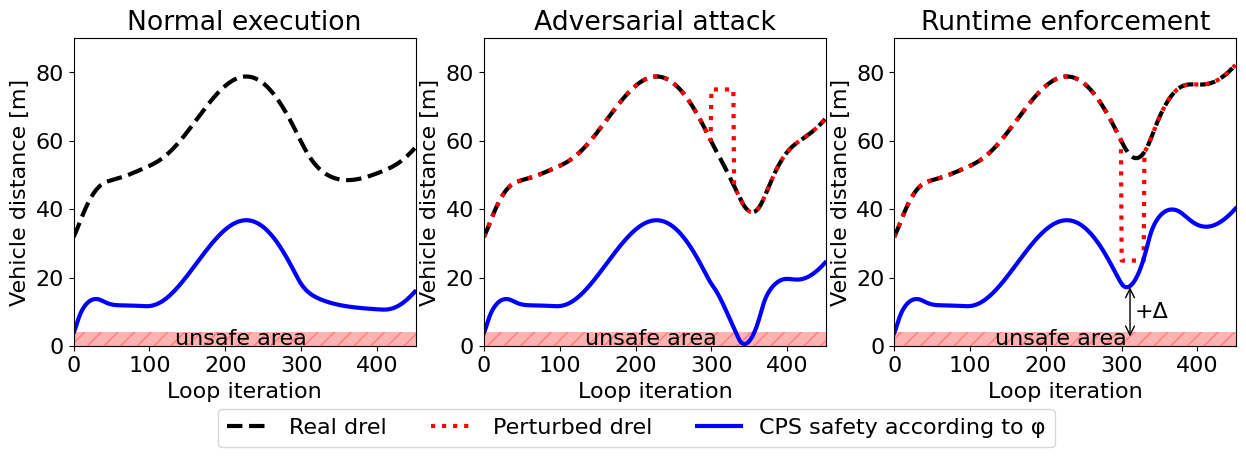
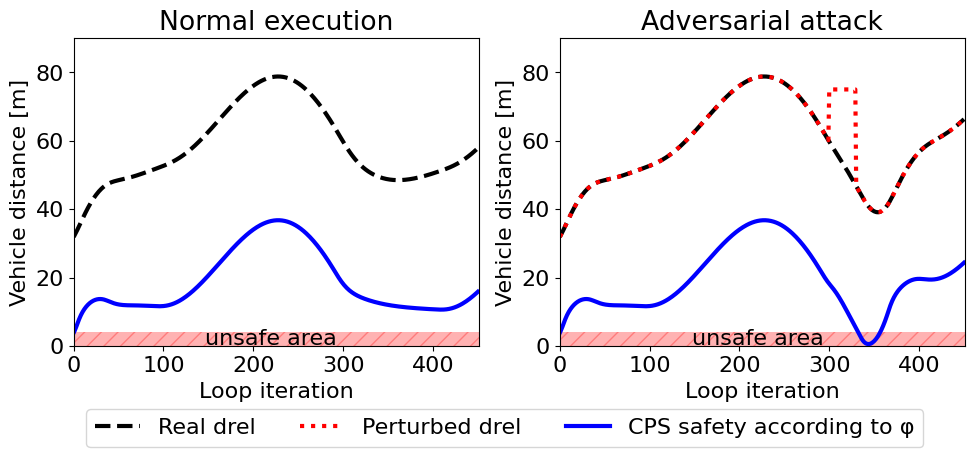
Update acc plot

diff --git a/client/plots/plotacc.py b/client/plots/plotacc.py
@@ -19,9 +19,9 @@ signals = {
 
 plt.rcParams.update({'font.size': 16})
 
-CASES = ["normal.csv", "acc.csv", "brk.csv"]
+CASES = ["normal.csv", "acc.csv"] #, "brk.csv"]
 TITLES = ["Normal execution", "Adversarial attack", "Runtime enforcement"]
-fig, axs = plt.subplots(1, 3, figsize=(15, 4))
+fig, axs = plt.subplots(1, 2, figsize=(11.5, 4))
 handles, labels = [], []
 times = []
 real_drel = []
